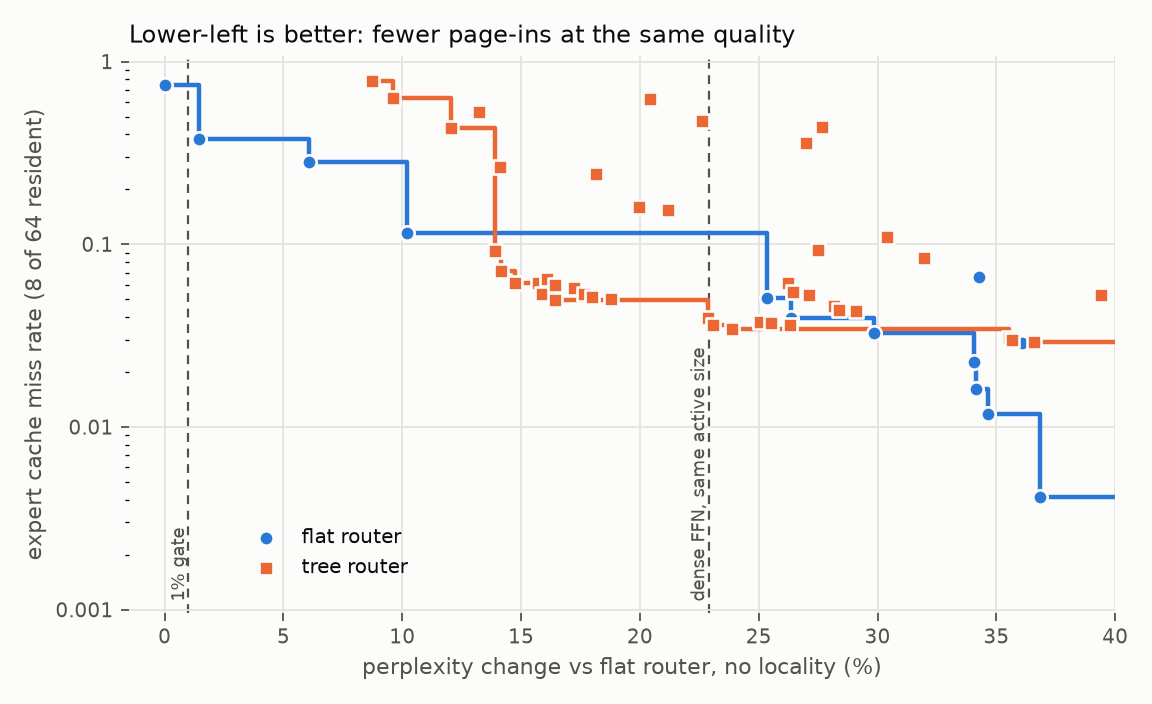
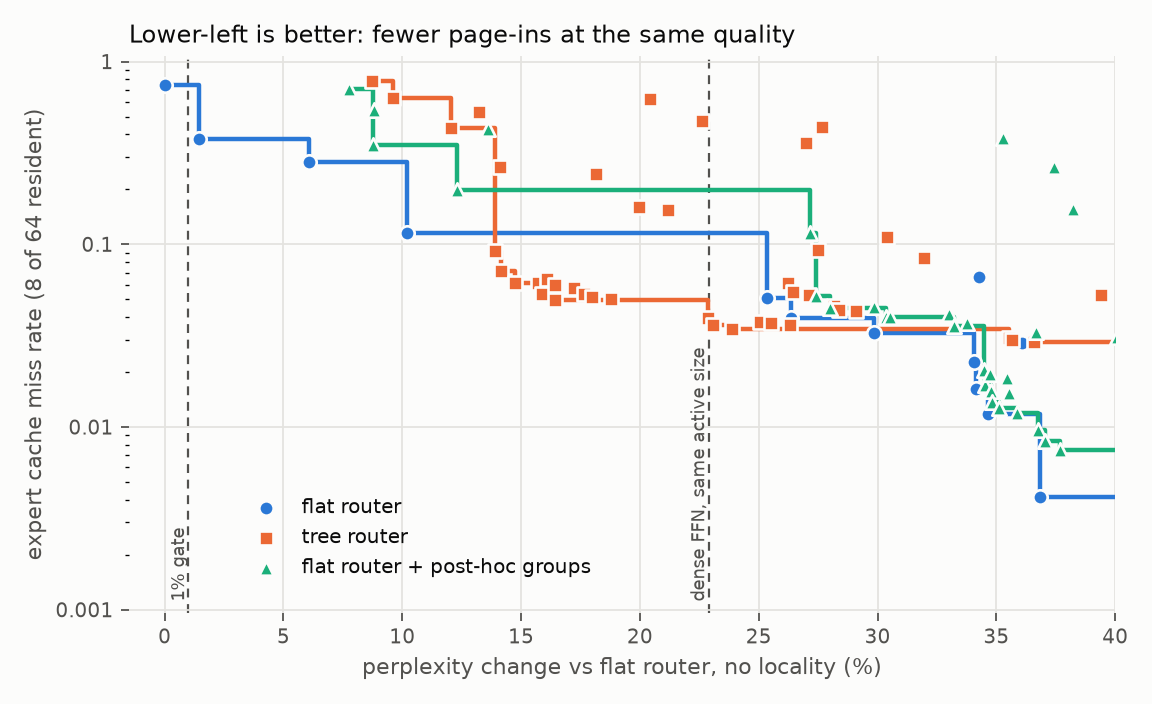
Follow-up results: post-hoc groups not supported either

diff --git a/report.py b/report.py
@@ -1,4 +1,4 @@
-"""results/results.json -> results/report.md and assets/frontier.png, per PREREGISTRATION.md."""
+"""results/*.json -> results/report.md and assets/frontier.png, per PREREGISTRATION.md."""
 import json
 from pathlib import Path
 
@@ -10,12 +10,14 @@ import matplotlib.ticker
 import numpy as np
 
 ALL, EVEN, ODD = slice(None), slice(0, None, 2), slice(1, None, 2)  # select on EVEN streams, report on ODD
-R = json.load(open("results/results.json"))
+R = [r for f in ("results", "groups") if Path(f"results/{f}.json").exists() for r in json.load(open(f"results/{f}.json"))]
 ppl = lambda r, s=ALL: float(np.exp(np.mean(r["nll"][s])))
 miss = lambda r, s=ALL, m=8: float(np.mean(r[f"miss{m}"][s]))
-plain = {r["run"]: r for r in R if r["bonus"] == 0 and r["margin"] == 0}
+pct = lambda r, b, s=ALL: 100 * (ppl(r, s) / ppl(b, s) - 1)
+plain = {r["run"]: r for r in R if r["bonus"] == 0 and r["margin"] == 0}  # no inference-time knobs
 base = plain["flat"]
-family = {f: [r for r in R if r["router"] == f and r["seed"] == 0] for f in ("flat", "tree")}
+family = {f: [r for r in R if r["router"] == f and r["seed"] == 0] for f in ("flat", "tree", "grouped")}
+seed_gap = abs(pct(plain["flat-seed1"], base)) / 100 if "flat-seed1" in plain else float("nan")
 
 
 def name(r):
@@ -23,41 +25,65 @@ def name(r):
     return f"{r['router']} " + ", ".join(knobs)
 
 
+def decision(other, gates, prereg=1.0):
+    """Flat vs `other` at each perplexity gate: table rows and the verdict at the first gate."""
+    rows, first = [f"| gate | family | selected configuration | perplexity vs flat | miss rate | {other} / flat |", "|---|---|---|---|---|---|"], None
+    for gate in gates:
+        pick = {f: min((r for r in family[f] if ppl(r, EVEN) <= (1 + gate) * ppl(base, EVEN)), key=lambda r: miss(r, EVEN), default=None) for f in ("flat", other)}
+        ratio = miss(pick[other], ODD) / miss(pick["flat"], ODD) if all(pick.values()) else float("nan")
+        first = ratio if first is None else first
+        for f, r in pick.items():
+            rows.append(f"| ≤{gate:.0%}{'' if gate <= prereg else ' (exploratory)'} | {f} | "
+                        + ("none passes | – | – |" if r is None else f"{name(r)} | {pct(r, base, ODD):+.2f}% | {miss(r, ODD):.4f} |")
+                        + (" – |" if ratio != ratio else f" {ratio:.2f} |" if f == other else " |"))
+    verdict = "inconclusive (the 1% gate is inside seed noise)" if seed_gap > 0.01 else "supported" if first <= 0.5 else "not supported"
+    detail = f"No {other} configuration is within the gate." if first != first else f"{other} / flat miss ratio {first:.2f}; supported means at most 0.50."
+    return rows, f"{verdict}.** {detail}"
+
+
 out = ["## Trained models, no inference-time rerouting", "",
        "| run | perplexity | vs flat | vs own λ=0 | miss @4 | miss @8 | miss @16 | expert switch | cluster switch | coverage @8 |", "|---|---|---|---|---|---|---|---|---|---|"]
 for run, r in plain.items():
-    cells = [f"{ppl(r):.2f}"] + [f"{100 * (ppl(r) / ppl(b) - 1):+.1f}%" for b in (base, plain[r["router"]])]
+    if r["router"] == "grouped":
+        continue
+    cells = [f"{ppl(r):.2f}"] + [f"{pct(r, b):+.1f}%" for b in (base, plain[r["router"]])]
     if "miss8" in r:
         cells += [f"{miss(r, m=m):.3f}" for m in (4, 8, 16)] + [f"{r['expert_switch']:.3f}", "–" if r["cluster_switch"] is None else f"{r['cluster_switch']:.3f}", f"{r['coverage8']:.3f}"]
     out.append(f"| {run} | " + " | ".join(cells + ["–"] * (9 - len(cells))) + " |")
 
-seed_gap = abs(ppl(plain["flat-seed1"]) / ppl(base) - 1) if "flat-seed1" in plain else float("nan")
+rows, verdict = decision("tree", (0.01, 0.02, 0.05, 0.10, 0.15, 0.20, 0.25, 0.30), prereg=0.05)
 out += ["", f"Seed-to-seed perplexity gap (flat, λ=0): {100 * seed_gap:.2f}%", "",
         "## Decision (cache of 8 experts per layer; selected on even streams, reported on odd)", "",
         "Gates of 1%, 2% and 5% are pre-registered. Wider gates were added after seeing the results and are exploratory.", "",
-        "| gate | family | selected configuration | perplexity vs flat | miss rate | tree / flat |", "|---|---|---|---|---|---|"]
-for gate in (0.01, 0.02, 0.05, 0.10, 0.15, 0.20, 0.25, 0.30):
-    pick = {f: min((r for r in rows if ppl(r, EVEN) <= (1 + gate) * ppl(base, EVEN)), key=lambda r: miss(r, EVEN), default=None) for f, rows in family.items()}
-    ratio = miss(pick["tree"], ODD) / miss(pick["flat"], ODD) if all(pick.values()) else float("nan")
-    for f, r in pick.items():
-        out.append(f"| ≤{gate:.0%}{'' if gate <= 0.05 else ' (exploratory)'} | {f} | " + ("none passes | – | – |" if r is None else f"{name(r)} | {100 * (ppl(r, ODD) / ppl(base, ODD) - 1):+.2f}% | {miss(r, ODD):.4f} |") + (" – |" if ratio != ratio else f" {ratio:.2f} |" if f == "tree" else " |"))
-    if gate == 0.01:
-        primary = ratio
-verdict = "inconclusive (the 1% gate is inside seed noise)" if seed_gap > 0.01 else "supported" if primary <= 0.5 else "not supported"
-out += ["", f"**H1 at the pre-registered 1% gate: {verdict}.** " + ("No tree configuration is within the gate." if primary != primary else f"Tree / flat miss ratio {primary:.2f}; supported means at most 0.50.")]
+        *rows, "", f"**H1 at the pre-registered 1% gate: {verdict}"]
+
+if family["grouped"]:
+    rows, verdict = decision("grouped", (0.01, 0.02, 0.05, 0.10, 0.15, 0.20))
+    out += ["", "## Follow-up 1 (exploratory): sticky post-hoc expert groups on the flat models", "",
+            "Group restriction alone (no hysteresis, no cache bonus) against the flat model it is applied to:", "",
+            "| flat model | perplexity flat | grouped | change | miss @8 flat | grouped |", "|---|---|---|---|---|---|"]
+    for run, g in plain.items():
+        if g["router"] == "grouped":
+            f = plain[run.replace("grouped", "flat")]
+            out.append(f"| λ={g['lam']:g} | {ppl(f):.2f} | {ppl(g):.2f} | {pct(g, f):+.1f}% | {miss(f):.3f} | {miss(g):.3f} |")
+    out += ["", *rows, "", f"**Follow-up 1 at the 1% gate: {verdict}"]
+
 Path("results/report.md").write_text("\n".join(out) + "\n")
 print("\n".join(out))
 
 # ---- frontier plot: every configuration, perplexity change vs miss rate ----
-INK, MUTED, COLORS, MARK = "#0b0b0b", "#52514e", {"flat": "#2a78d6", "tree": "#eb6834"}, {"flat": "o", "tree": "s"}
-fig, ax = plt.subplots(figsize=(7.2, 4.4), facecolor="#fcfcfb")
-ax.set_facecolor("#fcfcfb")
+INK, MUTED, SURFACE = "#0b0b0b", "#52514e", "#fcfcfb"
+STYLE = {"flat": ("#2a78d6", "o", "flat router"), "tree": ("#eb6834", "s", "tree router"), "grouped": ("#1baf7a", "^", "flat router + post-hoc groups")}
+fig, ax = plt.subplots(figsize=(7.2, 4.4), facecolor=SURFACE)
+ax.set_facecolor(SURFACE)
 for f, rows in family.items():
-    pts = sorted((100 * (ppl(r) / ppl(base) - 1), miss(r)) for r in rows)
-    ax.scatter(*zip(*pts), s=42, marker=MARK[f], color=COLORS[f], edgecolor="#fcfcfb", linewidth=1.2, zorder=3, label=f"{f} router")
-    front = [p for i, p in enumerate(pts) if all(q[1] > p[1] for q in pts[:i])]  # lower-left envelope
-    ax.step(*zip(*front), where="post", color=COLORS[f], linewidth=2, zorder=2)
-for v, label in ((1, "1% gate"), (100 * (ppl(plain["dense"]) / ppl(base) - 1), "dense FFN, same active size")):
+    if rows:
+        color, marker, label = STYLE[f]
+        pts = sorted((pct(r, base), miss(r)) for r in rows)
+        ax.scatter(*zip(*pts), s=42, marker=marker, color=color, edgecolor=SURFACE, linewidth=1.2, zorder=3, label=label)
+        front = [p for i, p in enumerate(pts) if all(q[1] > p[1] for q in pts[:i])]  # lower-left envelope
+        ax.step(*zip(*front), where="post", color=color, linewidth=2, zorder=2)
+for v, label in ((1, "1% gate"), (pct(plain["dense"], base), "dense FFN, same active size")):
     ax.axvline(v, color=MUTED, linewidth=1, linestyle=(0, (4, 3)), zorder=1)
     ax.text(v, 0.02, label + " ", color=MUTED, fontsize=8, rotation=90, ha="right", va="bottom", transform=ax.get_xaxis_transform())
 ax.set_yscale("log")

diff --git a/results/report.md b/results/report.md
@@ -40,3 +40,31 @@ Gates of 1%, 2% and 5% are pre-registered. Wider gates were added after seeing t
 | ≤30% (exploratory) | tree | tree λ=0.1, Δ=2, m=2 | +24.70% | 0.0349 | 1.05 |
 
 **H1 at the pre-registered 1% gate: not supported.** No tree configuration is within the gate.
+
+## Follow-up 1 (exploratory): sticky post-hoc expert groups on the flat models
+
+Group restriction alone (no hysteresis, no cache bonus) against the flat model it is applied to:
+
+| flat model | perplexity flat | grouped | change | miss @8 flat | grouped |
+|---|---|---|---|---|---|
+| λ=0 | 53.59 | 57.74 | +7.7% | 0.739 | 0.709 |
+| λ=0.03 | 54.36 | 58.29 | +7.2% | 0.379 | 0.348 |
+| λ=0.1 | 67.17 | 68.27 | +1.6% | 0.051 | 0.052 |
+| λ=0.3 | 71.83 | 72.05 | +0.3% | 0.023 | 0.021 |
+
+| gate | family | selected configuration | perplexity vs flat | miss rate | grouped / flat |
+|---|---|---|---|---|---|
+| ≤1% | flat | flat λ=0 | +0.00% | 0.7426 | – |
+| ≤1% | grouped | none passes | – | – | – |
+| ≤2% | flat | flat λ=0.03 | +1.75% | 0.3849 | – |
+| ≤2% | grouped | none passes | – | – | – |
+| ≤5% | flat | flat λ=0.03 | +1.75% | 0.3849 | – |
+| ≤5% | grouped | none passes | – | – | – |
+| ≤10% | flat | flat λ=0.03, Δ=1 | +10.89% | 0.1185 | |
+| ≤10% | grouped | grouped λ=0.03 | +9.25% | 0.3518 | 2.97 |
+| ≤15% | flat | flat λ=0.03, Δ=1 | +10.89% | 0.1185 | |
+| ≤15% | grouped | grouped λ=0.03, Δ=1 | +12.73% | 0.2019 | 1.70 |
+| ≤20% | flat | flat λ=0.03, Δ=1 | +10.89% | 0.1185 | |
+| ≤20% | grouped | grouped λ=0.03, Δ=1 | +12.73% | 0.2019 | 1.70 |
+
+**Follow-up 1 at the 1% gate: not supported.** No grouped configuration is within the gate.
